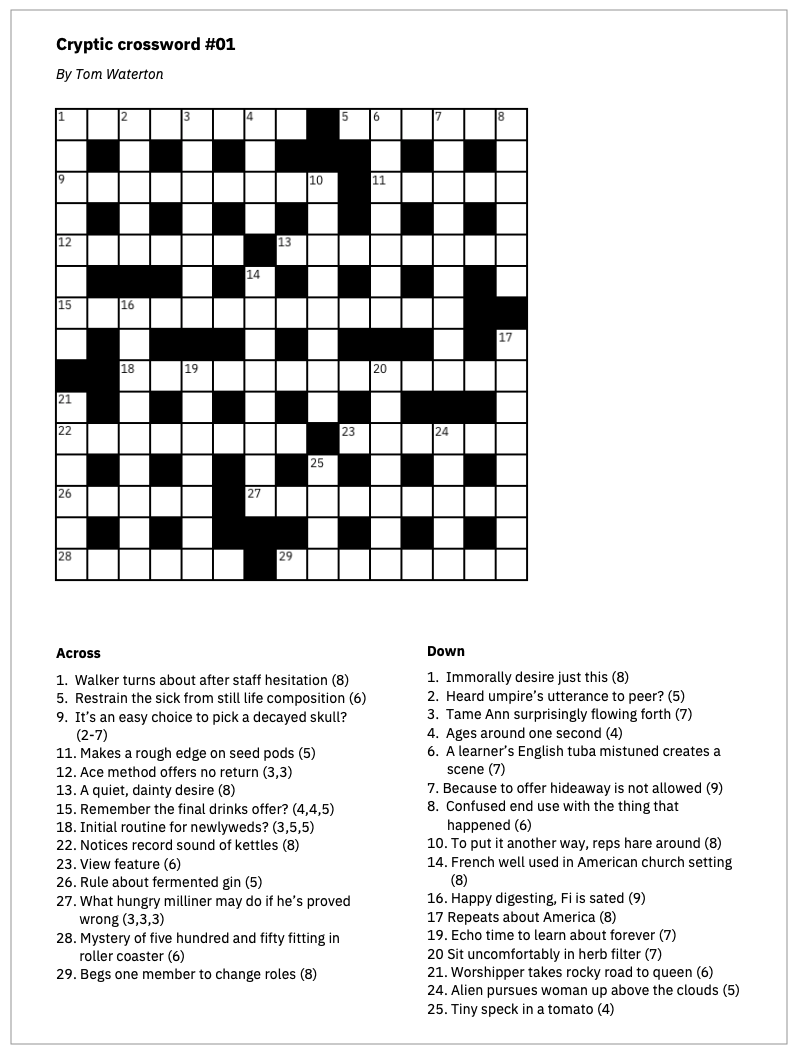
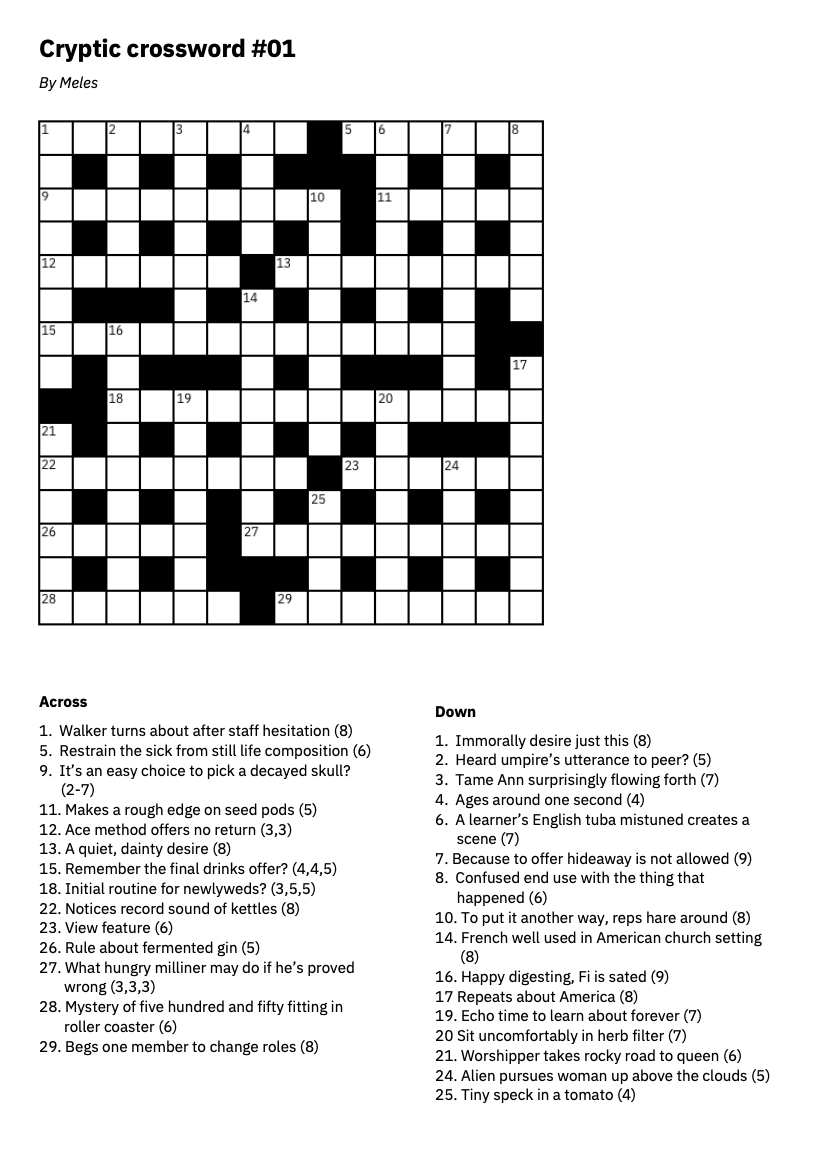
Adds print styles

diff --git a/src/pages/crossword_03.js b/src/pages/crossword_03.js
@@ -12,29 +12,26 @@ function Crossword_03Page() {
         title="Crossword #03"
       />
 
+  <div class="print-only">
+      A free cryptic crossword by Meles. Visit <strong>www.tomwaterton.com</strong> for more.
+  </div>
+
   <section class="row">
     <div class="column">
-    <h2>Cryptic crossword #03</h2>
-    <p class="description">If you have any feedback on any of my crosswords or would like clues or answers, 
-      do <a href="mailto:tomwaterton@gmail.com?Subject=Re%20your%20cryptic%20crossword">get in touch</a> with me.</p>
+      <h2 class="do-not-print">Cryptic crossword #03</h2>
+      <p class="description do-not-print">To print a copy of this crossword, press <strong>Cmd+P</strong> (on a Mac) or <strong>Ctrl+P</strong> (on Windows) </p>
+      <p class="description do-not-print">If you have any feedback on this crossword or would like clues or answers, 
+      do <a href="mailto:tomwaterton@gmail.com?Subject=Re%20your%20cryptic%20crossword%20number_03">get in touch</a> with me.</p>
     </div>
   </section>
 
   <section class="row">
     <div class="column">
       <img
-        alt="Cryptic crossword #02"
-        className="block"
+        alt="Cryptic crossword #03"
+        className="block crossword-border"
         src={crossword_03}
       />
-    </div>
-  </section>
-
-  <section class="row">
-    <div class="column">
-      <h3>To print a copy of this crossword:</h3>
-      <p class="instruction">1) Right-click the image above and select <strong>Open Image in New Tab</strong>.</p>
-      <p class="instruction">2) In the new tab press <strong>Cmd+P</strong> (Mac) or <strong>Ctrl+P</strong> (Windows) to open the print dialog.</p>
     </div>
   </section>
 

diff --git a/src/pages/crossword_02.js b/src/pages/crossword_02.js
@@ -12,11 +12,16 @@ function Crossword_02Page() {
         title="Crossword #02"
       />
 
+  <div class="print-only">
+      A free cryptic crossword by Meles. Visit <strong>www.tomwaterton.com</strong> for more.
+  </div>
+
   <section class="row">
     <div class="column">
-    <h2>Cryptic crossword #02</h2>
-    <p class="description">If you have any feedback on any of my crosswords or would like clues or answers, 
-      do <a href="mailto:tomwaterton@gmail.com?Subject=Re%20your%20cryptic%20crossword">get in touch</a> with me.</p>
+      <h2 class="do-not-print">Cryptic crossword #02</h2>
+      <p class="description do-not-print">To print a copy of this crossword, press <strong>Cmd+P</strong> (on a Mac) or <strong>Ctrl+P</strong> (on Windows) </p>
+      <p class="description do-not-print">If you have any feedback on this crossword or would like clues or answers, 
+      do <a href="mailto:tomwaterton@gmail.com?Subject=Re%20your%20cryptic%20crossword%20number_02">get in touch</a> with me.</p>
     </div>
   </section>
 
@@ -24,17 +29,9 @@ function Crossword_02Page() {
     <div class="column">
       <img
         alt="Cryptic crossword #02"
-        className="block"
+        className="block crossword-border"
         src={crossword_02}
       />
-    </div>
-  </section>
-
-  <section class="row">
-    <div class="column">
-      <h3>To print a copy of this crossword:</h3>
-      <p class="instruction">1) Right-click the image above and select <strong>Open Image in New Tab</strong>.</p>
-      <p class="instruction">2) In the new tab press <strong>Cmd+P</strong> (Mac) or <strong>Ctrl+P</strong> (Windows) to open the print dialog.</p>
     </div>
   </section>
 

diff --git a/src/pages/crossword_01.js b/src/pages/crossword_01.js
@@ -12,11 +12,16 @@ function Crossword_01Page() {
         title="Crossword #01"
       />
 
+  <div class="print-only">
+      A free cryptic crossword by Meles. Visit <strong>www.tomwaterton.com</strong> for more.
+  </div>
+
   <section class="row">
     <div class="column">
-    <h2>Cryptic crossword #01</h2>
-    <p class="description">If you have any feedback on any of my crosswords or would like clues or answers, 
-    do <a href="mailto:tomwaterton@gmail.com?Subject=Re%20your%20cryptic%20crossword">get in touch</a> with me.</p>
+      <h2 class="do-not-print">Cryptic crossword #01</h2>
+      <p class="description do-not-print">To print a copy of this crossword, press <strong>Cmd+P</strong> (on a Mac) or <strong>Ctrl+P</strong> (on Windows) </p>
+      <p class="description do-not-print">If you have any feedback on this crossword or would like clues or answers, 
+      do <a href="mailto:tomwaterton@gmail.com?Subject=Re%20your%20cryptic%20crossword%20number_01">get in touch</a> with me.</p>
     </div>
   </section>
 
@@ -24,17 +29,9 @@ function Crossword_01Page() {
     <div class="column">
       <img
         alt="Cryptic crossword #1"
-        className="block"
+        className="block crossword-border"
         src={crossword_01}
       />
-    </div>
-  </section>
-
-  <section class="row">
-    <div class="column">
-      <h3>To print a copy of this crossword:</h3>
-      <p class="instruction">1) Right-click the image above and select <strong>Open Image in New Tab</strong>.</p>
-      <p class="instruction">2) In the new tab press <strong>Cmd+P</strong> (Mac) or <strong>Ctrl+P</strong> (Windows) to open the print dialog.</p>
     </div>
   </section>
 

diff --git a/src/pages/brewing.js b/src/pages/brewing.js
@@ -2,6 +2,8 @@ import React from "react";
 
 import Layout from "../components/layout";
 import SEO from "../components/seo";
+import bookshelves_photo from "../images/reading/bookshelves.jpg";
+import brewing_kit_photo from "../images/brewing/brewing_kit.jpeg";
 
 
 function BrewingPage() {
@@ -16,6 +18,39 @@ function BrewingPage() {
     <div class="column">
       <h1>Brewing</h1>
       <p class="description">Content to be added here soon... Cheers!</p>
+    </div>
+    <div class="column">
+      <img
+        alt="Bookselves photo"
+        className="block tilt-landscape"
+        src={brewing_kit_photo}
+      />
+    </div>
+  </section>
+
+  <section class="row">
+    <div class="column">
+      <img
+        alt="Bookselves photo"
+        className="block"
+        src={brewing_kit_photo}
+      />
+    </div>
+    <div class="column">
+      <p class="description">Text for section 2</p>
+    </div>
+  </section>
+
+  <section class="row">
+    <div class="column">
+      <p class="description">Text for section 3</p>
+    </div>
+    <div class="column">
+      <img
+        alt="Bookselves photo"
+        className="block tilt-landscape"
+        src={bookshelves_photo}
+      />
     </div>
   </section>
 

diff --git a/src/css/style.css b/src/css/style.css
@@ -12,6 +12,8 @@
 @import url("./reading.css");
 @import url("./tiles.css");
 
+/* This parent entry contains all on-screen styles */
+@media screen {
 
 html {
   font-size: 20px;
@@ -99,3 +101,71 @@ ul {
   padding: 10px;
 }
 
+.print-only {
+  display: none;
+}
+
+/* End of on-screen styles */
+}
+
+
+/* The following overrides screen styles when printing */
+@media print {
+
+body {
+  margin: 0;
+  color: #000;
+  background-color: #fff;
+}
+
+h1 {
+  font-family: Arial, Helvetica, sans-serif;
+  font-size: 2rem;
+}
+
+h2 {
+  font-family: Arial, Helvetica, sans-serif;
+  font-size: 1.3rem;
+  padding-top: 20px;
+}
+
+h3 {
+  font-family: Arial, Helvetica, sans-serif;
+}
+
+p {
+  font-family: Arial, Helvetica, sans-serif;
+}
+
+.description {
+  font-family: Arial, Helvetica, sans-serif;
+  font-style: italic;
+}
+
+img {
+  max-width: 100%;
+}
+
+.print-only {
+  font-size: small;
+  padding-bottom: 24px;
+}
+
+.header-700 {
+  display: none;
+}
+
+.bg-footer-700 {
+  display: none;
+}
+
+.do-not-print {
+  display: none;
+}
+
+.crossword-border {
+  border: none;
+}
+
+/* End of print-only styles */
+}

diff --git a/src/pages/reading.js b/src/pages/reading.js
@@ -17,7 +17,7 @@ function ReadingPage() {
       <h1>Reading</h1>
       <p class="description">I'm an incurable bookworm so I always have a book or two on the go. 
       Here are some highlights from the last few years.</p>
-        <ul class="ul-small-2">
+        <ul class="ul-small-2 do-not-print">
           <li><a href="#non-fiction">Non-fiction</a></li>
           <li><a href="#fiction">Fiction</a></li>
         </ul>
@@ -27,7 +27,7 @@ function ReadingPage() {
     <div class="column">
       <img
         alt="Bookselves photo"
-        className="block tilt-landscape"
+        className="block tilt-landscape do-not-print"
         src={bookshelves_photo}
       />
     </div>

diff --git a/src/css/cryptic-crosswords.css b/src/css/cryptic-crosswords.css
@@ -12,3 +12,7 @@
   font-size: 0.8rem;
   padding-top: 6px;
 }
+
+.crossword-border {
+  border: solid 1px grey;
+}
